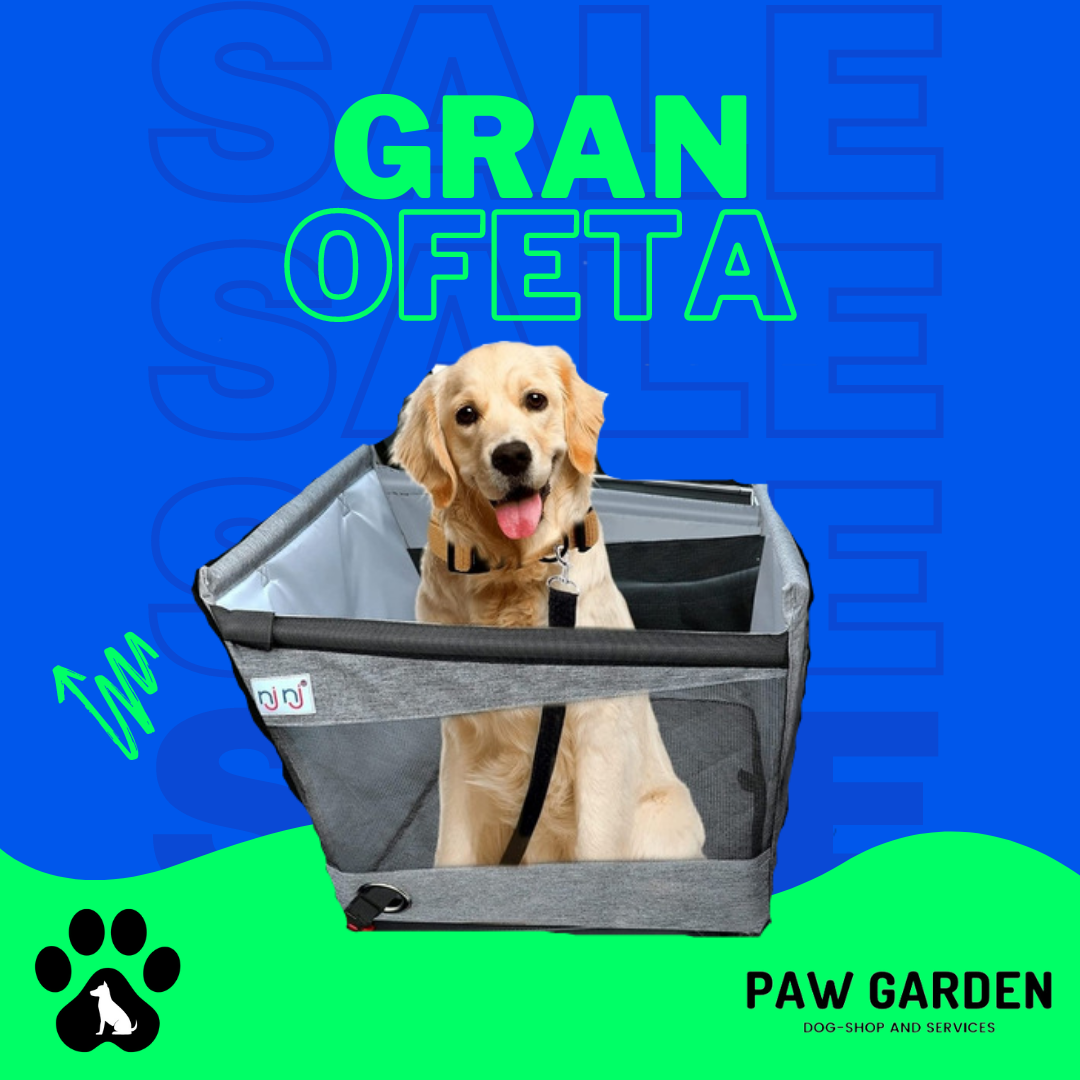
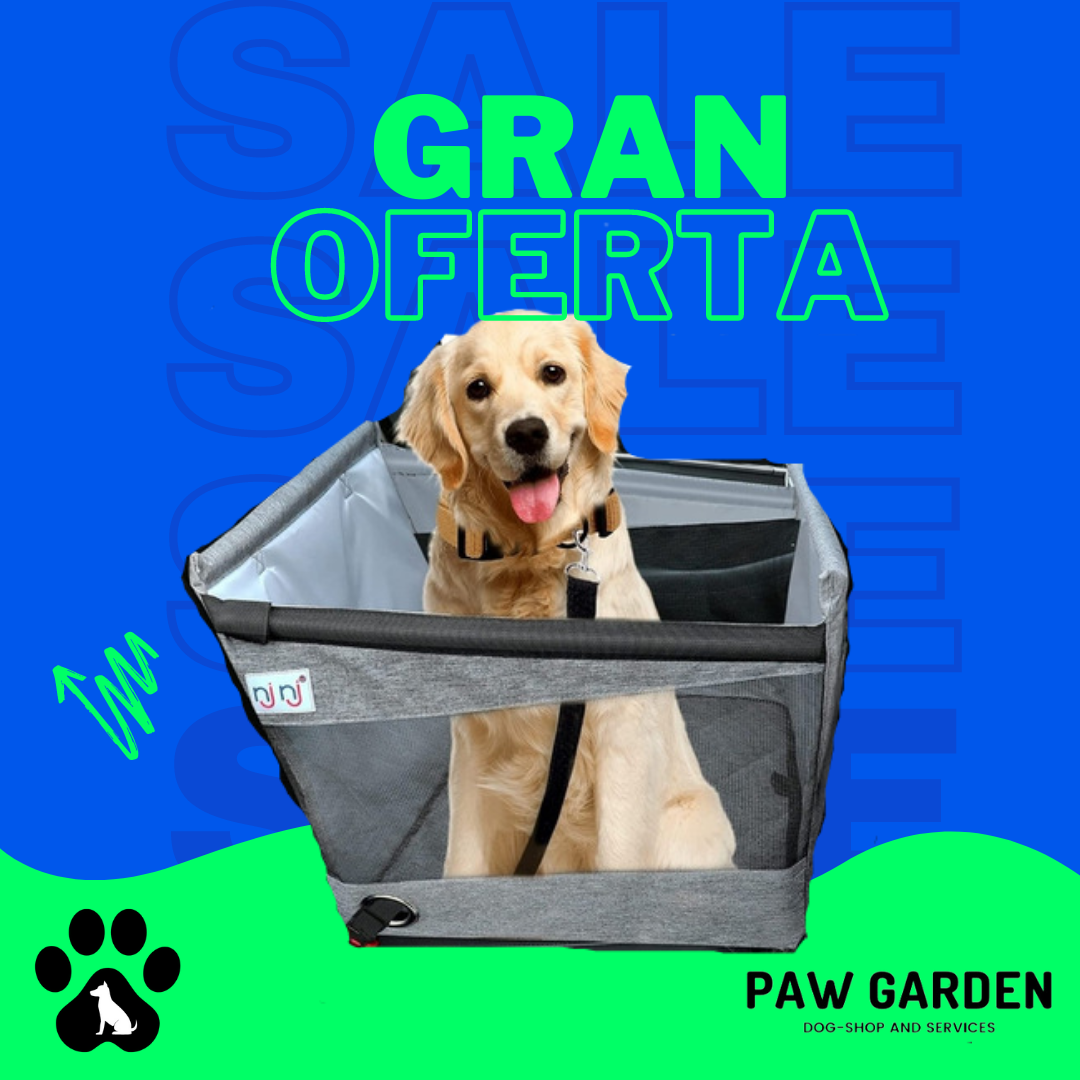
Modifico imagenes de Promotion

Changed region(s): [[0.1528, 0.0611, 0.825, 0.8861]]

diff --git a/Promotion/Promotion.css b/Promotion/Promotion.css
@@ -36,8 +36,11 @@
 }
 
  .Text__promotion{
-    font-family: var(--primaryFont);
-    font-weight: 700;
+   font-family: var(--primaryFont);
+   font-weight: 400;
+   font-size: 2rem;
+   text-transform: uppercase;
+   text-align: center;
  }
 
  .imag__center{
